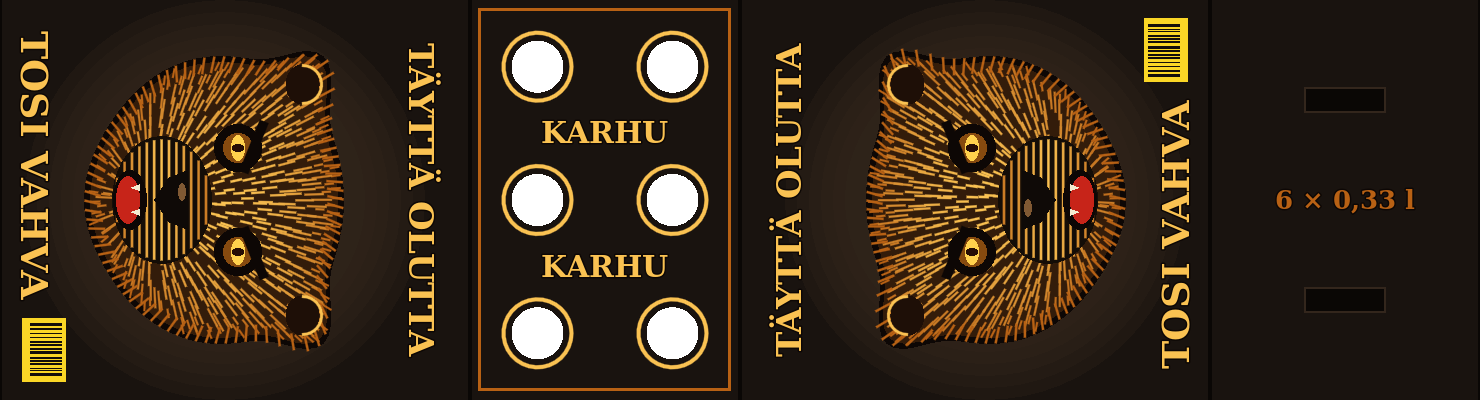
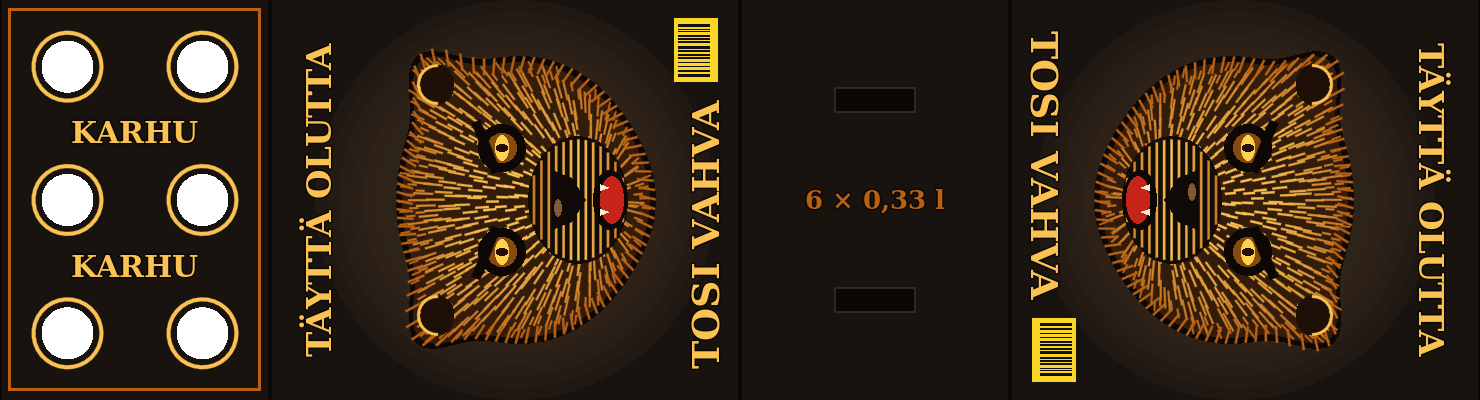
Karhu-koppa käännetty: kansi reikineen eteen, karhut sivuille, pohja taakse
Claude-Session: https://claude.ai/code/session_01MkAtUDjHmTsDWNUZ7MLf4b

diff --git a/docs/pelin-sisalto.md b/docs/pelin-sisalto.md
@@ -600,8 +600,8 @@ päivän tilat: [tilat.md](tilat.md), kehitys ja testit: [kehitys.md](kehitys.md
   koristelaatta); se pysyy päässä asusta riippumatta, kunnes lippis vaihdetaan takaisin. Kirppikseltä ostettu
   hiihtohaalari tulee kodin kaappiin neljänneksi asuksi. Ensimmäisestä kaupasta ostetusta kutosesta (K-Market,
   Vaalan K-Market tai kauppa-auto, ei juoksukaljoista) jää Karhu-kutosen pahvikoppa, ja pää pujotetaan heti sen sivun
-  aukosta: koppa seisoo pystyssä päässä, edessä ja takana tuima karhu kyljellään, toisella kyljellä pullonkaulojen
-  reiät. Alareuna sovitetaan pään muotoon (otsalla ja takaraivolla tiukka, sivuilla pullistuu). Painatus on oma
+  aukosta: koppa seisoo pystyssä päässä, edessä kansi pullonkaulojen rei'illä, sivuilla tuima karhu kyljellään
+  päälaki eteenpäin ja takana pohja. Alareuna sovitetaan pään muotoon (ylimäärä pullistuu eteen ja taakse). Painatus on oma
   piirros (`tools/karhu_koppa.gd` -> `assets/karhu_koppa.png`). Koppa vaihdetaan kodin kaapilla, ja Päivi
   ihmettelee sitä kotiovella. Asu ja hattu vaihtuvat
   kaikkiin pelaajan malleihin paikallaan (pyörä, kävely, mopo, sisätilat) ja säilyvät tallennuksessa. Vaatteet
